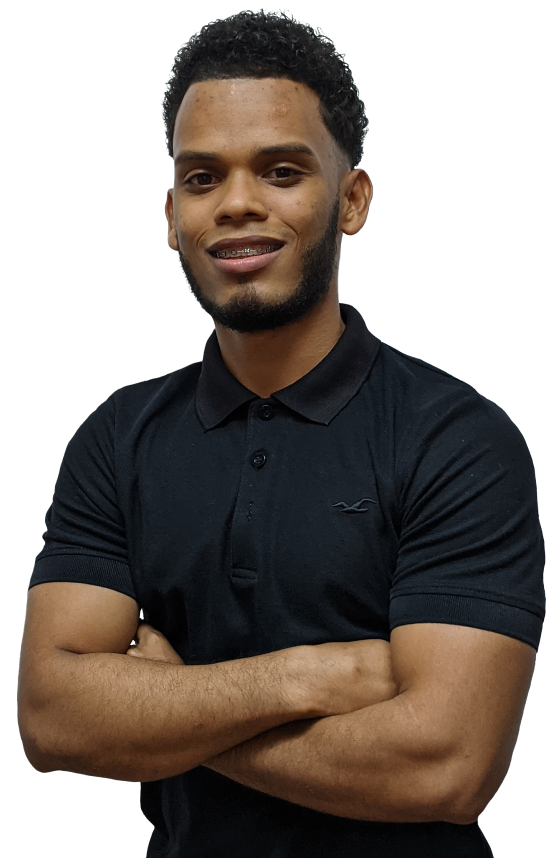
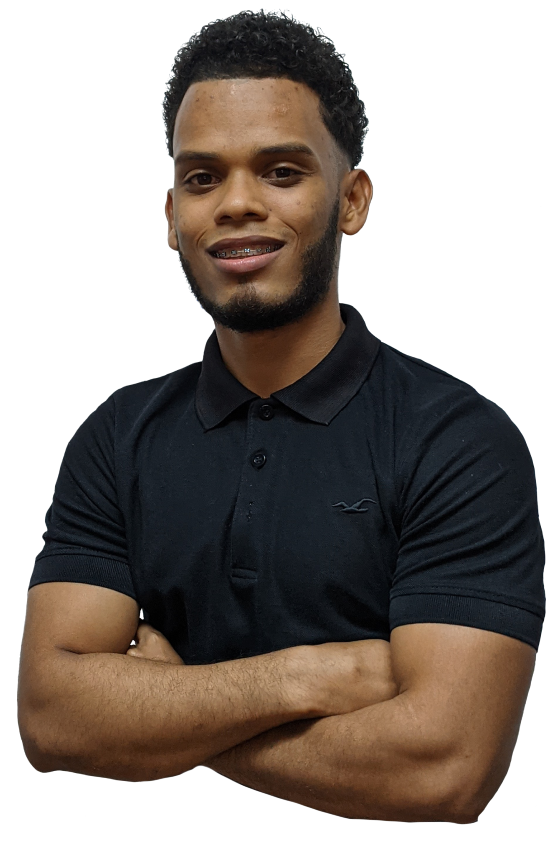
changed colors, introduction image and line image

Changed region(s): [[0.2459, 0.8788, 0.8915, 1.0]]

diff --git a/src/components/common/Nav/styles.scss b/src/components/common/Nav/styles.scss
@@ -4,20 +4,49 @@
 	top: 0;
 	z-index: 5;
 
-	@media screen and (max-width: 768px) {
-		display: none;
-		height: 100vh;
-		// background-color: var(--tertiary-color);
+	&.isScrolling {
 		backdrop-filter: blur(50px);
+	}
+
+	@media screen and (max-width: 768px) {
+		// display: none;
+		&.isActive {
+			backdrop-filter: blur(50px);
+			height: 100vh;
+
+			.nav__navigation,
+			.nav__cv {
+				display: initial;
+			}
+		}
 		.nav {
 			display: flex;
 			flex-direction: column;
 			justify-content: space-between;
 			height: 100%;
+
+			&__brand {
+				align-self: flex-start;
+				width: 50px;
+				height: 50px;
+				font-size: 1.5rem;
+			}
+
 			&__navigation {
 				display: flex;
 				flex-direction: column;
+				justify-content: center;
 				font-size: 2rem;
+				position: fixed;
+				top: 0;
+				right: 0;
+				width: 100%;
+				height: 100vh;
+				display: none;
+			}
+
+			&__cv {
+				display: none;
 			}
 		}
 	}
@@ -28,7 +57,7 @@
 	flex-wrap: wrap;
 	justify-content: space-between;
 	align-items: center;
-	padding: 30px 0;
+	padding: 20px 0;
 	text-transform: capitalize;
 	font-size: 1rem;
 	width: 100%;
@@ -69,7 +98,7 @@
 
 			&:hover {
 				&::before {
-					background-color: var(--tertiary-color);
+					background-color: var(--quertiary-color);
 					width: 110%;
 				}
 			}
@@ -78,7 +107,7 @@
 
 	&__cv {
 		padding: 10px 28px;
-		background-color: var(--secondary-color);
+		background-color: var(--quertiary-color);
 		border-radius: 10px;
 		color: var(--tertiary-text-color);
 	}

diff --git a/src/components/Background/styles.scss b/src/components/Background/styles.scss
@@ -9,23 +9,36 @@
 		left: 0;
 		width: 100%;
 		height: 100%;
-		overflow-x: hidden;
+		// overflow-x: hidden;
 
 		.circle {
 			position: absolute;
 			border-radius: 50%;
 			filter: blur(200px);
-			width: clamp(280px, 60vw, 420px);
-			height: clamp(280px, 60vw, 420px);
+			width: clamp(180px, 60vw, 620px);
+			height: clamp(180px, 60vw, 620px);
 			&--1 {
-				top: -15%;
-				left: -15%;
+				top: -20%;
+				left: -20%;
 				background-color: var(--tertiary-color);
 			}
 			&--2 {
-				right: -10%;
-				bottom: -10%;
-				background-color: var(--red-color);
+				right: -20%;
+				bottom: -20%;
+				background-color: var(--quertiary-color);
+			}
+		}
+
+		@media screen and (max-width: 768px) {
+			.circle {
+				&--1 {
+					top: -15%;
+					left: -15%;
+				}
+				&--2 {
+					right: -15%;
+					bottom: -15%;
+				}
 			}
 		}
 	}

diff --git a/src/components/sections/Home/styles.scss b/src/components/sections/Home/styles.scss
@@ -24,10 +24,22 @@
 			justify-content: flex-end;
 		}
 
+		@media screen and (max-width: 576px) {
+			justify-content: center;
+		}
+
 		&__box {
 			position: relative;
-			width: clamp(200px, 30vw, 450px);
+			width: clamp(200px, 50vw, 450px);
 			height: 100%;
+
+			@media screen and (max-width: 768px) {
+				width: clamp(200px, 50vw, 300px);
+			}
+
+			@media screen and (max-width: 576px) {
+				width: clamp(200px, 50vw, 230px);
+			}
 
 			img {
 				bottom: 0;
@@ -36,6 +48,10 @@
 				position: absolute;
 				object-fit: contain;
 				z-index: 1;
+
+				&.img-profile {
+					filter: grayscale(1);
+				}
 			}
 		}
 	}

diff --git a/src/components/sections/Home/Index.jsx b/src/components/sections/Home/Index.jsx
@@ -10,8 +10,16 @@ export const HomeSection = () => {
 				<div className='home__wrapper'>
 					<div className='home__img'>
 						<div className='home__img__box'>
-							<img src='/assets/images/line.png' alt='line image' />
-							<img src='/assets/images/jc.png' alt='jc image' />
+							<img
+								className='img-line'
+								src='/assets/images/line.png'
+								alt='line image'
+							/>
+							<img
+								className='img-profile'
+								src='/assets/images/jc.png'
+								alt='jc image'
+							/>
 						</div>
 					</div>
 					<div className='home__content'>

diff --git a/src/scss/abstracts/_variables.scss b/src/scss/abstracts/_variables.scss
@@ -7,10 +7,21 @@
 	/* colors */
 	--primary-color: #000000;
 	--secondary-color: #e0fcff;
+	--tertiary-color: #12cad6;
+	--quertiary-color: #65eeb7;
+
+	--primary-text-color: #e0fcff;
+	--secondary-text-color: #12cad6;
+	--tertiary-text-color: #000000;
+	--quertiary-text-color: #65eeb7;
+
+	/* --primary-color: #000000;
+	--secondary-color: #e0fcff;
 	--tertiary-color: #2ec1ac;
-	--red-color: #af0404;
+	--quertiary-color: #af0404;
 
 	--primary-text-color: #e0fcff;
 	--secondary-text-color: #2ec1ac;
 	--tertiary-text-color: #000000;
+	--quertiary-text-color: #af0404; */
 }

diff --git a/src/scss/base/_base.scss b/src/scss/base/_base.scss
@@ -4,20 +4,19 @@ body {
 	color: var(--primary-text-color);
 	font-size: 16px;
 	background-color: var(--primary-color);
+	overflow-x: hidden;
 }
-
 .section {
 	height: 100vh;
-	padding-top: 100px;
 	width: 100%;
 
 	.section-title {
 		display: inline-block;
 		position: relative;
 		font-family: var(--fontCodeLatin);
-		font-size: clamp(2rem, 5vw, 5rem);
+		font-size: clamp(2.5rem, 3vw, 4.5rem);
 		width: max-content;
-		color: var(--secondary-text-color);
+		color: var(--quertiary-text-color);
 
 		&::before {
 			position: absolute;

diff --git a/src/components/sections/AboutMe/Index.jsx b/src/components/sections/AboutMe/Index.jsx
@@ -4,8 +4,8 @@ import "./styles.scss";
 
 export const AboutSection = () => {
 	return (
-		<MaxContainer>
-			<div className='about section'>
+		<div className='about section'>
+			<MaxContainer>
 				<div className='about__wrapper'>
 					<h2 className='section-title'>Mí</h2>
 
@@ -32,7 +32,7 @@ export const AboutSection = () => {
 						</p>
 					</div>
 				</div>
-			</div>
-		</MaxContainer>
+			</MaxContainer>
+		</div>
 	);
 };

diff --git a/src/components/common/Hamburger/styles.scss b/src/components/common/Hamburger/styles.scss
@@ -1,8 +1,8 @@
 .menu-toggle {
 	position: fixed;
-	top: 50px;
+	top: 35px;
 	right: 30px;
-	z-index: 5;
+	z-index: 6;
 	display: flex;
 	justify-content: center;
 	align-items: center;
@@ -21,5 +21,9 @@
 			transition: all 0.3s ease;
 			border-radius: 2px;
 		}
+	}
+
+	@media screen and (min-width: 768px) {
+		display: none;
 	}
 }
